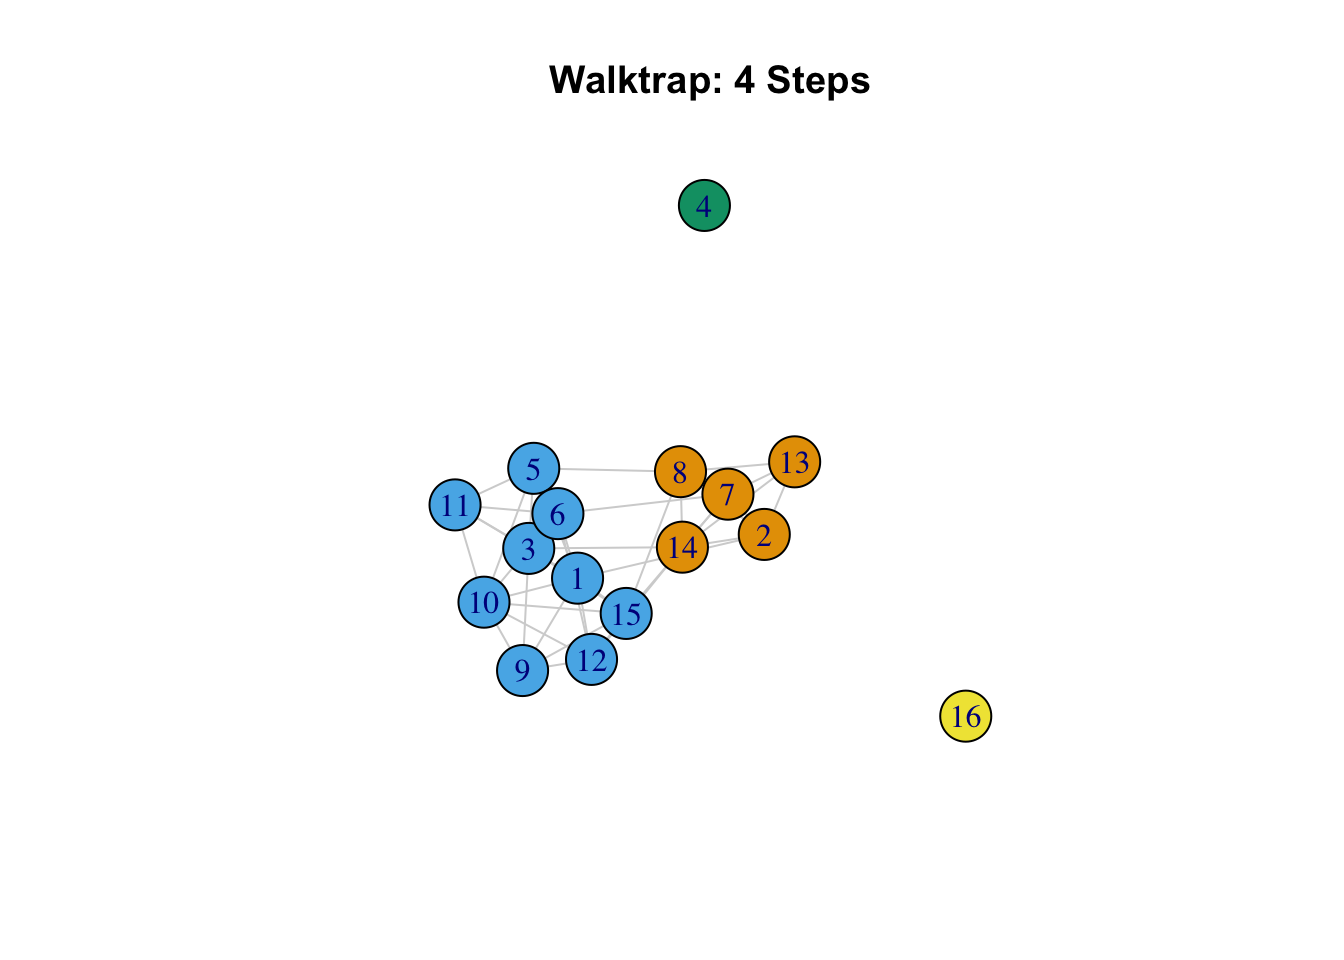
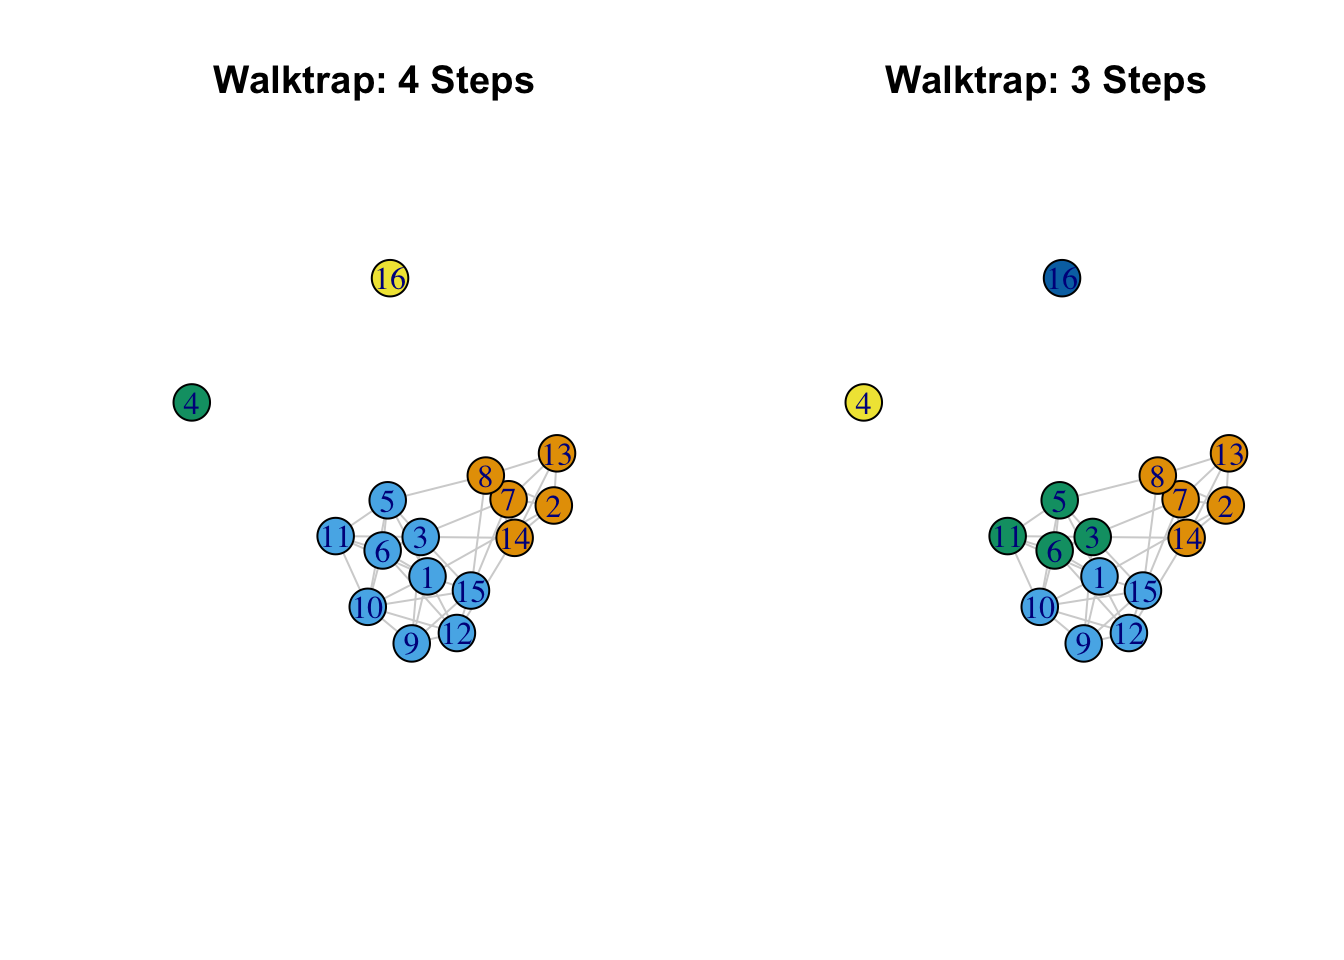
20250928

diff --git a/docs/W5_presentation.html b/docs/W5_presentation.html
@@ -308,10 +308,10 @@
 <span id="cb8-4"><a></a>                                       <span class="at">vertices =</span> class182_attributes) </span>
 <span id="cb8-5"><a></a>net182_friend </span></code></pre></div><button title="Copy to Clipboard" class="code-copy-button"><i class="bi"></i></button></div>
 <div class="cell-output cell-output-stdout">
-<pre><code>IGRAPH 54202e9 DN-- 16 62 -- 
+<pre><code>IGRAPH 8c28932 DN-- 16 62 -- 
 + attr: name (v/c), race (v/c), grade (v/n), gender (v/c), friend_tie
 | (e/n)
-+ edges from 54202e9 (vertex names):
++ edges from 8c28932 (vertex names):
  [1] 2 -&gt;1  2 -&gt;7  2 -&gt;8  2 -&gt;13 2 -&gt;14 3 -&gt;5  3 -&gt;6  3 -&gt;11 3 -&gt;14 3 -&gt;15
 [11] 5 -&gt;1  5 -&gt;3  5 -&gt;6  5 -&gt;8  5 -&gt;10 5 -&gt;11 6 -&gt;1  6 -&gt;3  6 -&gt;5  6 -&gt;7 
 [21] 6 -&gt;10 6 -&gt;11 6 -&gt;12 7 -&gt;2  7 -&gt;8  7 -&gt;13 7 -&gt;14 8 -&gt;2  8 -&gt;5  8 -&gt;7 
@@ -433,9 +433,9 @@ $no
 <div class="code-copy-outer-scaffold"><div class="sourceCode cell-code" id="cb18"><pre class="sourceCode numberSource r number-lines code-with-copy"><code class="sourceCode r"><span id="cb18-1"><a></a>net182_friend_und <span class="ot">&lt;-</span> <span class="fu">as.undirected</span>(net182_friend, <span class="at">mode =</span> <span class="st">"collapse"</span>) </span>
 <span id="cb18-2"><a></a>net182_friend_und</span></code></pre></div><button title="Copy to Clipboard" class="code-copy-button"><i class="bi"></i></button></div>
 <div class="cell-output cell-output-stdout">
-<pre><code>IGRAPH f13646d UN-- 16 42 -- 
+<pre><code>IGRAPH 9fe620b UN-- 16 42 -- 
 + attr: name (v/c), race (v/c), grade (v/n), gender (v/c)
-+ edges from f13646d (vertex names):
++ edges from 9fe620b (vertex names):
  [1] 1 --2  1 --5  3 --5  1 --6  3 --6  5 --6  2 --7  6 --7  2 --8  5 --8 
 [11] 7 --8  1 --9  3 --9  1 --10 5 --10 6 --10 9 --10 1 --11 3 --11 5 --11
 [21] 6 --11 10--11 1 --12 6 --12 9 --12 10--12 2 --13 7 --13 8 --13 2 --14
@@ -623,28 +623,13 @@ B-1      c 0, n 16
 <section id="walktrap-6" class="slide level2">
 <h2>2) Walktrap</h2>
 <div class="cell">
-<div class="code-copy-outer-scaffold"><div class="sourceCode cell-code" id="cb33"><pre class="sourceCode numberSource r number-lines code-with-copy"><code class="sourceCode r"><span id="cb33-1"><a></a><span class="co">#note the use of layout </span></span>
-<span id="cb33-2"><a></a><span class="fu">plot</span>(net182_friend_und, <span class="at">layout =</span> layout,</span>
-<span id="cb33-3"><a></a>     <span class="at">vertex.color =</span> <span class="fu">membership</span>(friend_comm_wt4), </span>
-<span id="cb33-4"><a></a>     <span class="at">edge.color =</span> <span class="st">"light gray"</span>, <span class="at">vertex.size =</span> <span class="dv">20</span>, <span class="at">main =</span> <span class="st">"Walktrap: 4 Steps"</span>)</span></code></pre></div><button title="Copy to Clipboard" class="code-copy-button"><i class="bi"></i></button></div>
-<div class="cell-output-display">
-<div>
-<figure>
-<p><img data-src="W5_presentation_files/figure-revealjs/unnamed-chunk-20-1.png" width="672"></p>
-</figure>
+<div class="code-copy-outer-scaffold"><div class="sourceCode cell-code" id="cb33"><pre class="sourceCode numberSource r number-lines code-with-copy"><code class="sourceCode r"><span id="cb33-1"><a></a><span class="fu">par</span>(<span class="at">mfrow =</span> <span class="fu">c</span>(<span class="dv">1</span>, <span class="dv">2</span>))</span>
+<span id="cb33-2"><a></a>layout <span class="ot">&lt;-</span> <span class="fu">layout_with_fr</span>(net182_friend) </span>
+<span id="cb33-3"><a></a><span class="fu">plot</span>(net182_friend_und, <span class="at">layout =</span> layout, <span class="at">vertex.color =</span> <span class="fu">membership</span>(friend_comm_wt4),<span class="at">edge.color =</span> <span class="st">"light gray"</span>, <span class="at">vertex.size =</span> <span class="dv">20</span>, <span class="at">main =</span> <span class="st">"Walktrap: 4 Steps"</span>)</span>
+<span id="cb33-4"><a></a><span class="fu">plot</span>(net182_friend_und, <span class="at">layout =</span> layout, <span class="at">vertex.color =</span> <span class="fu">membership</span>(friend_comm_wt3), <span class="at">edge.color =</span> <span class="st">"light gray"</span>, <span class="at">vertex.size =</span> <span class="dv">20</span>, <span class="at">main =</span> <span class="st">"Walktrap: 3 Steps"</span>)</span></code></pre></div><button title="Copy to Clipboard" class="code-copy-button"><i class="bi"></i></button></div>
+
 </div>
-</div>
-<div class="code-copy-outer-scaffold"><div class="sourceCode cell-code" id="cb34"><pre class="sourceCode numberSource r number-lines code-with-copy"><code class="sourceCode r"><span id="cb34-1"><a></a><span class="fu">plot</span>(net182_friend_und, <span class="at">layout =</span> layout,</span>
-<span id="cb34-2"><a></a>     <span class="at">vertex.color =</span> <span class="fu">membership</span>(friend_comm_wt3), <span class="at">edge.color =</span> <span class="st">"light gray"</span>, <span class="at">vertex.size =</span> <span class="dv">20</span>, <span class="at">main =</span> <span class="st">"Walktrap: 3 Steps"</span>)</span></code></pre></div><button title="Copy to Clipboard" class="code-copy-button"><i class="bi"></i></button></div>
-<div class="cell-output-display">
-<div>
-<figure>
-<p><img data-src="W5_presentation_files/figure-revealjs/unnamed-chunk-20-2.png" width="672"></p>
-</figure>
-</div>
-</div>
-</div>
-</section>
+<img data-src="W5_presentation_files/figure-revealjs/unnamed-chunk-20-1.png" width="672" class="r-stretch"></section>
 <section id="done" class="slide level2">
 <h2>Done!</h2>
 <ul>
